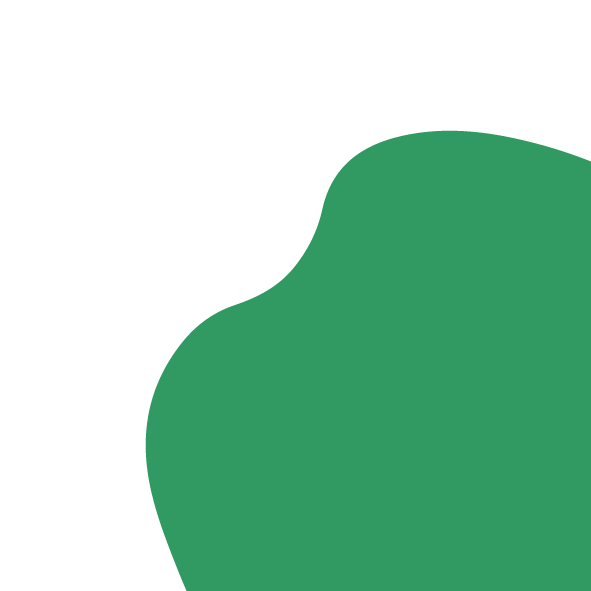
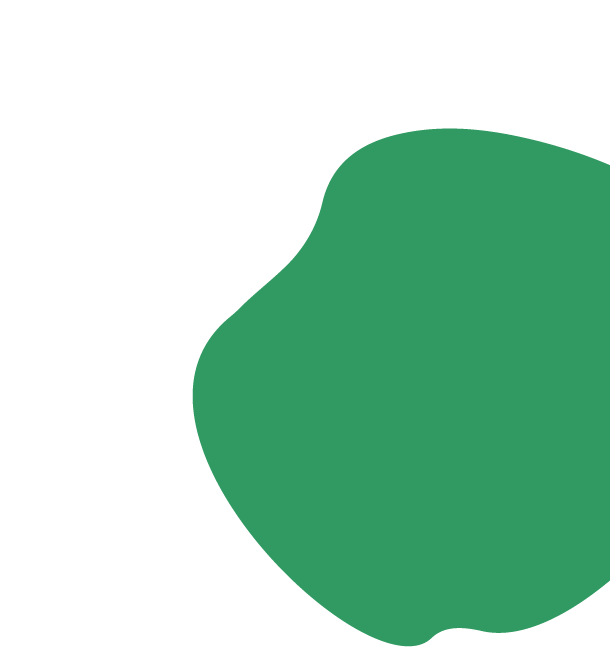
green blobs in place

Changed region(s): [[0.2437, 0.1827, 1.0, 1.0]]

diff --git a/css/main.css b/css/main.css
@@ -114,8 +114,46 @@ body {
   position: relative;
 }
 
+h2 {
+  color: #D07676;
+  font-size: 3em;
+  margin: 0.5em 0;
+  text-decoration: underline solid #D07676 2px;
+  text-underline-offset: 4px;
+  width: 100%;
+  margin-left: -5%;
+}
+
+.about-title {
+  display: flex;
+  justify-items: flex-end;
+  margin-left: 0;
+}
+
+.skills-title {
+  margin-left: -10%;
+}
+
 .color-block {
   opacity: 0.9;
+}
+
+/* ---------- S E C T I O N S ----------- */
+
+/*------------ HERO SECTION -----------*/
+/* ------------ Header ------------ */
+.rb-logo {
+  display: inline-block;
+}
+
+h6 {
+  font-size: 2em;
+  font-weight: 700;
+  margin: 30px 0 0 30px;
+  -webkit-text-fill-color: transparent;
+  -webkit-text-stroke: 1pt #4c6381;
+  justify-content: flex-start;
+  display: flex;
 }
 
 /* ------- shape: green blob 1 ------- */
@@ -144,46 +182,6 @@ body {
 .white-squiggle-1 img{
   height: auto;
   width: 75%;
-}
-
-/* -------------------------------- */
-
-h2 {
-  color: #D07676;
-  font-size: 3em;
-  margin: 0.5em 0;
-  text-decoration: underline solid #D07676 2px;
-  text-underline-offset: 4px;
-  width: 100%;
-  margin-left: -5%;
-}
-
-.about-title {
-  display: flex;
-  justify-items: flex-end;
-  margin-left: 0;
-}
-
-.skills-title {
-  margin-left: -10%;
-}
-
-/* ---------- S E C T I O N S ----------- */
-
-/*------------ HERO SECTION -----------*/
-/* ------------ Header ------------ */
-.rb-logo {
-  display: inline-block;
-}
-
-h6 {
-  font-size: 2em;
-  font-weight: 700;
-  margin: 30px 0 0 30px;
-  -webkit-text-fill-color: transparent;
-  -webkit-text-stroke: 1pt #4c6381;
-  justify-content: flex-start;
-  display: flex;
 }
 
 /* ----------- Navigation Bar ----------- */
@@ -215,6 +213,7 @@ nav ul li a:active {
 }
 
 /* ----------- Hero Area ----------- */
+
 .welcome {
   width: 95%;
   display: inline-block;
@@ -338,14 +337,6 @@ p {
   width: 100%;
 }
 
-/* ------- green blob 1 ------- */
-.color-block-3 {
-  position: absolute;
-  top: 260%;
-  left: 40%;
-  transform: rotate(-15deg);
-  z-index: 1;
-}
 
 /*------------ PROJECTS SECTION -----------*/
 h4 {
@@ -426,6 +417,15 @@ h5 {
   transition: transform 0.3;
 }
 
+
+/* ------- green blob 2 ------- */
+.color-block-3 {
+  position: absolute;
+  top: -18%;
+  left: 58%;
+  z-index: 1;
+}
+
 /* ------- shape: green blob 3 - 5 ------ */
 .color-block-4 {
   position: absolute;
@@ -457,7 +457,7 @@ h5 {
   position: absolute;
   top: 78%;
   left: 5%;
-  transform: rotate(20deg);
+  transform: rotate(148deg);
   z-index: 1;
 }
 
@@ -509,7 +509,7 @@ button {
 button:hover {
   color:antiquewhite;
   background-color: #D07676;
-  border: 2px solid #D07676;
+  border: 2pnx solid #D07676;
   transition: 0.2;
 }
 
@@ -525,7 +525,7 @@ form {
 .color-block-7 {
   position: absolute;
   top: 240%;
-  left: 60%;
+  left: 55%;
   z-index: 1;
 }
 

diff --git a/index.html b/index.html
@@ -106,15 +106,14 @@
           <li>Ruby</li>
         </ul>
       </div>
-
-      <div class="color-block-3 green-blob-2 color-block">
-        <img src="img/shapes/Path 4.png">
-      </div>
   </div>  
 </section>
 
 <section class="project-section" id="#project">
   <div class="row">
+    <div class="color-block-3 green-blob-2 color-block">
+      <img src="img/shapes/Path-6.png">
+    </div>
     <h2>Projects</h2>
     <div class="project-item">
       <div class="title-card">
@@ -149,13 +148,6 @@
         <a href="#" target="_blank"><img src="img/screenshots/unplugged-300ppi-01.png" alt="Unplugged-project" ></a>
       </div>
     </div>
-
-    
-
-    <div class="color-block-6 green-blob-5 color-block">
-      <img src="img/shapes/Path 4.png">
-    </div>
-
   </div>
 </section>
 
